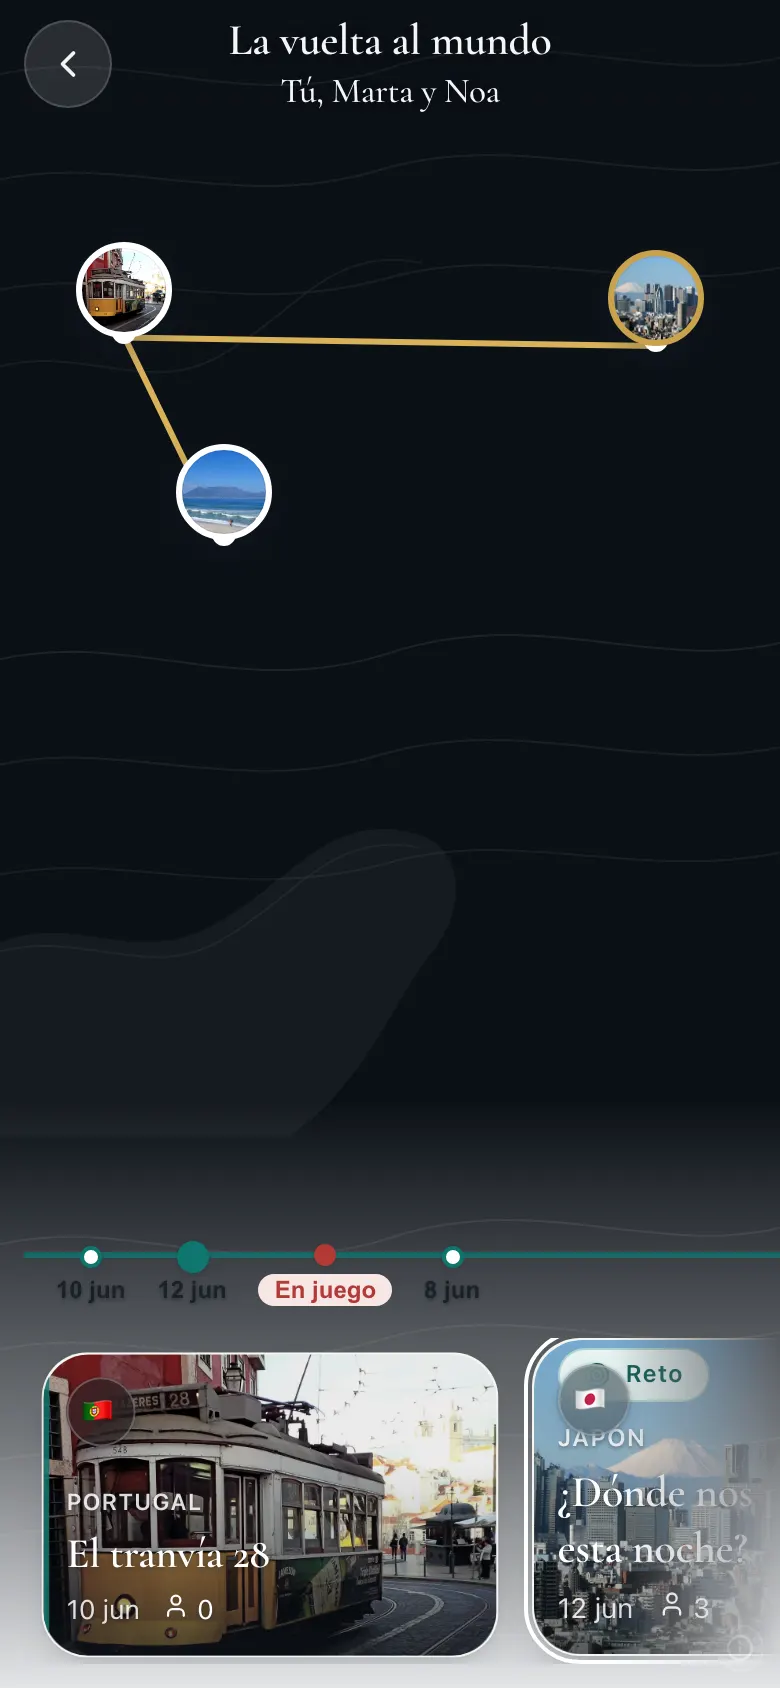
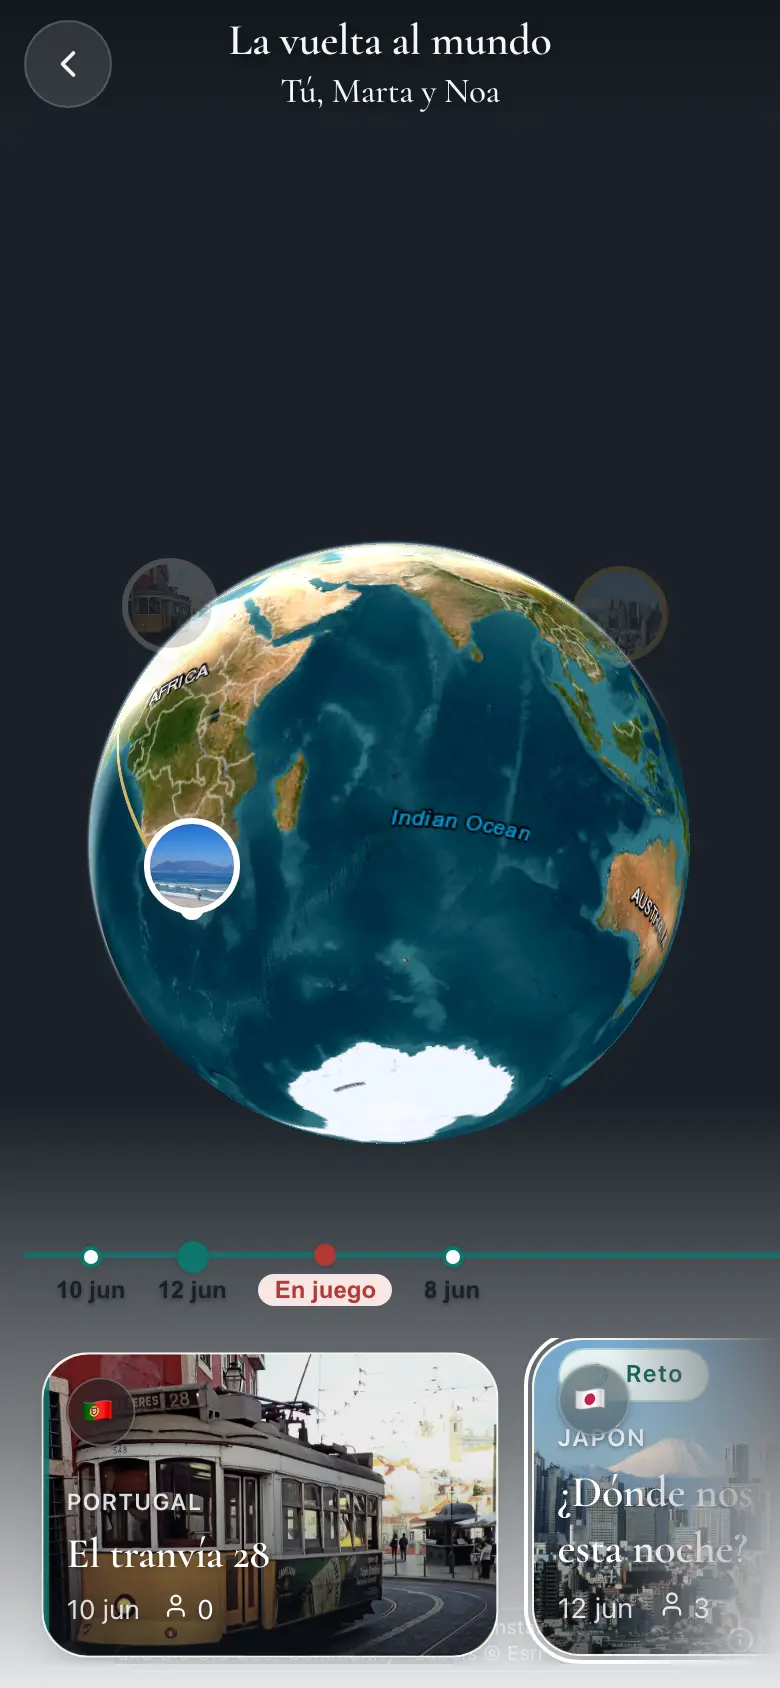
feat(landing): showcase con el mapa satélite REAL en las capturas (#697)
Las capturas home.webp/viaje.webp del showcase de la landing se generaban
con la galería hermética (sin red → sin teselas → stub plano oscuro).
Añade un modo híbrido GALLERY_REAL_MAP=1 (vite.config.ts) que mantiene
fixtures/fakeSupabase/determinismo pero deja pasar el paquete real
maplibre-gl, más un spec/config dedicados (npm run landing:assets, fuera
de CI) que permiten red hacia server.arcgisonline.com, esperan a que el
mapa asiente su encuadre, despliegan el crédito de Esri y capturan a
390×844@2x en webp ≤150KB.

Regenera home.webp (de paso corrige el wordmark viejo "tabide" del
rebrand #692) y viaje.webp. Añade un crédito de repuesto en
LandingShowcase para la diapositiva "viaje", donde el carril de tarjetas
del diario tapa el crédito propio del mapa en la foto congelada.

Closes #695

Changed region(s): [[0.0923, 0.2464, 0.8923, 0.6777], [0.0923, 0.1232, 0.9231, 0.2464]]

diff --git a/web/e2e/landing-assets.spec.ts b/web/e2e/landing-assets.spec.ts
@@ -1,0 +1,205 @@
+import { execFileSync } from 'node:child_process'
+import fs from 'node:fs'
+import os from 'node:os'
+import path from 'node:path'
+import { fileURLToPath } from 'node:url'
+import { type Route, expect, test } from '@playwright/test'
+
+// Regenera los assets del showcase de la landing (issue #695) con el satélite Esri
+// REAL en vez del stub plano oscuro de la galería hermética: el dueño reportó que
+// `home.webp`/`viaje.webp` (marcos de móvil de la landing) enseñaban el mapa
+// estilizado del stub, no el producto de verdad. Corre contra la galería en modo
+// híbrido `GALLERY=1 GALLERY_REAL_MAP=1` (ver vite.config.ts): mantiene fixtures/
+// fakeSupabase/sesión falsa y el determinismo de la galería (reloj congelado,
+// animaciones apagadas), pero deja pasar el paquete REAL `maplibre-gl`, así que
+// los pines-foto de `showcaseFixtures.ts` quedan clavados sobre teselas reales.
+//
+// A diferencia de `gallery-capture.spec.ts` (100% hermético, bloquea TODA red
+// externa) este spec permite explícitamente la red hacia el host de teselas de
+// Esri (ESRI_HOST_PATTERN abajo, el único que usa el preset `diario` — satélite +
+// etiquetas, ver `src/lib/mapPresets.ts`) y bloquea cualquier otro host externo
+// (analítica, etc.) para no depender de servicios que no necesitamos.
+//
+// NO corre en CI ni con `npm run e2e`: tiene su PROPIO comando y config
+// (igual que `gallery-capture`/`npm run gallery:shots`), y necesita red de verdad
+// (no determinista, no apto para CI). Regenerar los assets:
+//
+//   cd web && npm run landing:assets
+//
+// Requiere `cwebp` instalado (https://developers.google.com/speed/webp/docs/cwebp;
+// en macOS: `brew install webp`).
+
+const __dirname = path.dirname(fileURLToPath(import.meta.url))
+const ASSETS_DIR = path.join(__dirname, '..', 'src', 'assets', 'landing')
+
+// Único host de teselas del preset `diario` (satélite + etiquetas Esri, ver
+// mapPresets.ts): ambas capas de HomeGlobe/TripMapGlobe piden a este mismo host,
+// solo cambia la ruta (World_Imagery vs. Reference/World_Boundaries_and_Places).
+const ESRI_HOST_PATTERN = /^https:\/\/server\.arcgisonline\.com\//
+
+// Tamaño máximo del webp final (requisito del dueño: ≤150KB por captura de la
+// landing, coherente con el resto de assets/landing/*.webp).
+const MAX_WEBP_BYTES = 150 * 1024
+// Escalón de calidad de `cwebp -q`: empezamos en 75 (pedido del dueño) y bajamos de
+// 5 en 5 si hace falta hasta caber en el límite, sin pasar de un mínimo razonable.
+const WEBP_QUALITY_START = 75
+const WEBP_QUALITY_MIN = 40
+const WEBP_QUALITY_STEP = 5
+
+// Viewport de las capturas del showcase: mismo tamaño que usan hoy los assets de
+// `src/assets/landing/*.webp` (390×844, @2x — ver LandingShowcase/landingShowcaseData).
+const VIEWPORT = { width: 390, height: 844 }
+const DEVICE_SCALE_FACTOR = 2
+
+// Cuánto tiempo sin una respuesta NUEVA de tesela Esri consideramos "el mapa dejó
+// de cargar" (proxy de `idle`: HomeGlobe no tiene skeleton/evento propio expuesto
+// para acechar desde fuera — solo TripMapGlobe lo tiene internamente, vía
+// `map.once('idle', …)` — así que usamos la MISMA señal, red en reposo, para los
+// dos casos y mantenemos el spec simple). Margen final tras la quietud de red: el
+// navegador necesita un frame más para componer/pintar la última tesela decodificada.
+const TILE_QUIET_MS = 700
+const TILE_WAIT_TIMEOUT_MS = 20_000
+const PAINT_MARGIN_MS = 500
+// Al montar, HomeGlobe/TripMapGlobe hacen `fitBounds`/`flyTo` a los pines (encuadre
+// final): esos vuelos duran ≤800ms en el propio código (`FLY_TO_ACTIVE_DURATION_MS`,
+// `duration: 800` en TripMapGlobe). El PRIMER lote de teselas (vista mundo inicial,
+// antes de encuadrar) puede quedar "en reposo" antes de que el vuelo termine y pida
+// el SEGUNDO lote (zoom/centro final) — sin este respiro capturaríamos el globo A
+// MEDIO GIRO. Esperamos a que el vuelo acabe ANTES de empezar a medir quietud de red.
+const CAMERA_SETTLE_MS = 1200
+
+interface ShowcaseCase {
+  /** Id del caso de la galería (`window.__galleryCases`, ver cases.tsx). */
+  caseId: string
+  /** Fichero final en `src/assets/landing/` (mismo nombre que hoy). */
+  fileName: string
+}
+
+// Únicos dos assets con mapa real (issue #695): `jugar.webp`/`resultado.webp` no
+// llevan satélite (el mapa de "jugar" es CARTO Voyager, reducido a un mini-mapa
+// decorativo de esquina, no protagonista) ni el wordmark viejo, así que no hace
+// falta regenerarlos aquí.
+const CASES: ShowcaseCase[] = [
+  { caseId: 'showcase-home', fileName: 'home.webp' },
+  { caseId: 'showcase-viaje', fileName: 'viaje.webp' },
+]
+
+/** Deja pasar localhost/data/blob (la app + fixtures) y el host de teselas Esri;
+ * bloquea cualquier otra red externa (analítica, etc.) — no la necesitamos y así
+ * la captura no depende de servicios ajenos al mapa. */
+const allowEsriAndLocal = (route: Route) => {
+  const url = route.request().url()
+  if (
+    url.startsWith('http://localhost') ||
+    url.startsWith('data:') ||
+    url.startsWith('blob:') ||
+    ESRI_HOST_PATTERN.test(url)
+  ) {
+    return route.continue()
+  }
+  return route.abort()
+}
+
+/** Convierte un PNG a webp con `cwebp`, bajando la calidad hasta caber en
+ * `MAX_WEBP_BYTES` (o hasta el mínimo). Devuelve la calidad y el peso final. */
+function convertToWebp(pngPath: string, webpPath: string): { quality: number; bytes: number } {
+  let quality = WEBP_QUALITY_START
+  for (;;) {
+    execFileSync('cwebp', ['-q', String(quality), pngPath, '-o', webpPath], { stdio: 'pipe' })
+    const bytes = fs.statSync(webpPath).size
+    if (bytes <= MAX_WEBP_BYTES || quality <= WEBP_QUALITY_MIN) return { quality, bytes }
+    quality -= WEBP_QUALITY_STEP
+  }
+}
+
+test('regenera home.webp/viaje.webp con satélite Esri real', async ({ browser, baseURL }) => {
+  const tmpDir = fs.mkdtempSync(path.join(os.tmpdir(), 'lg-landing-assets-'))
+
+  for (const { caseId, fileName } of CASES) {
+    const context = await browser.newContext({
+      baseURL,
+      viewport: VIEWPORT,
+      deviceScaleFactor: DEVICE_SCALE_FACTOR,
+    })
+
+    // Cuenta respuestas de teselas Esri para aproximar "el mapa dejó de cargar"
+    // (ver TILE_QUIET_MS arriba): sin esto no hay forma de distinguir "todavía
+    // pidiendo teselas" de "ya está, solo faltan otras peticiones sueltas".
+    let tileCount = 0
+    let lastTileAt = 0
+    context.on('response', (response) => {
+      if (ESRI_HOST_PATTERN.test(response.url())) {
+        tileCount += 1
+        lastTileAt = Date.now()
+      }
+    })
+    await context.route('**/*', allowEsriAndLocal)
+
+    const page = await context.newPage()
+    await page.goto(`/gallery.html?case=${encodeURIComponent(caseId)}`)
+    await expect(page.locator('#root')).not.toBeEmpty()
+
+    // Revela el crédito de Esri (issue #695): el mapa NO usa el control nativo de
+    // atribución de MapLibre (banda que rompía el diseño, #363/#382); en su lugar
+    // pinta su propio botón "ⓘ" plegado (HomeGlobe/TripMapGlobe, aria-label
+    // "Créditos del mapa") que despliega el texto al tocarlo. Requisito de
+    // licencia de Esri: el crédito debe quedar VISIBLE en la captura, así que lo
+    // desplegamos ANTES de disparar el screenshot.
+    //
+    // Dos motivos para hacerlo con `page.evaluate` (click de DOM directo) en vez de
+    // un locator normal: (1) todo el globo/mapa vive bajo un `aria-hidden="true"`
+    // (decorativo — el estado real se comunica por otros medios accesibles), así
+    // que NO aparece en el árbol de accesibilidad y `getByRole` no lo encuentra;
+    // (2) el botón queda geométricamente bajo el dock de tarjetas/carrusel (mismo
+    // stacking context, sin z-index propio), así que un click "real" de Playwright
+    // (incluso con `force: true`) golpea ese dock, no el botón. `.click()` de DOM
+    // dispara el evento nativo que React escucha, sin pasar por el hit-testing del
+    // navegador.
+    await page.waitForSelector('[aria-label="Créditos del mapa"]', { state: 'attached' })
+    await page.evaluate(() => {
+      document.querySelector<HTMLButtonElement>('[aria-label="Créditos del mapa"]')?.click()
+    })
+    // El click dispara un `setState` de React: espera a que el re-render lo refleje
+    // en el DOM (no es instantáneo, por eso no lo leemos en el mismo `evaluate`).
+    await expect(page.locator('[aria-label="Créditos del mapa"]')).toHaveAttribute(
+      'aria-expanded',
+      'true',
+    )
+
+    // Deja que el vuelo de cámara del encuadre (fitBounds/flyTo a los pines) TERMINE
+    // antes de medir quietud de red (ver CAMERA_SETTLE_MS): si no, el primer lote de
+    // teselas (vista mundo inicial) puede quedar "en reposo" antes de que el vuelo
+    // pida el lote final, y capturaríamos el globo a medio girar.
+    await page.waitForTimeout(CAMERA_SETTLE_MS)
+
+    // Espera a que las teselas Esri dejen de llegar (proxy de "mapa cargado de
+    // verdad"; ver TILE_QUIET_MS) + un margen fijo para que el navegador termine de
+    // componer/pintar la última tesela decodificada.
+    const deadline = Date.now() + TILE_WAIT_TIMEOUT_MS
+    expect(
+      tileCount,
+      `[${caseId}] no llegó ninguna tesela de ${ESRI_HOST_PATTERN}`,
+    ).toBeGreaterThan(0)
+    while (Date.now() - lastTileAt < TILE_QUIET_MS && Date.now() < deadline) {
+      await page.waitForTimeout(100)
+    }
+    await page.waitForTimeout(PAINT_MARGIN_MS)
+
+    const pngPath = path.join(tmpDir, `${caseId}.png`)
+    await page.screenshot({ path: pngPath })
+    await context.close()
+
+    const webpPath = path.join(ASSETS_DIR, fileName)
+    const { quality, bytes } = convertToWebp(pngPath, webpPath)
+    console.log(
+      `[landing:assets] ${fileName}: ${tileCount} teselas, calidad cwebp ${quality}, ` +
+        `${(bytes / 1024).toFixed(1)}KB`,
+    )
+    expect(
+      bytes,
+      `${fileName} supera ${MAX_WEBP_BYTES / 1024}KB incluso a calidad mínima`,
+    ).toBeLessThanOrEqual(MAX_WEBP_BYTES)
+  }
+
+  fs.rmSync(tmpDir, { recursive: true, force: true })
+})

diff --git a/web/playwright.landing-assets.config.ts b/web/playwright.landing-assets.config.ts
@@ -1,0 +1,45 @@
+import { defineConfig, devices } from '@playwright/test'
+
+// Config de Playwright para el modo HÍBRIDO "galería + mapa real" (issue #695):
+// SOLO sirve para regenerar los assets del showcase de la landing
+// (`web/src/assets/landing/home.webp` y `viaje.webp`) con el satélite Esri de
+// verdad en vez del stub plano oscuro de la galería normal. Aparte de
+// playwright.gallery.config.ts (captura hermética de TODOS los casos) porque:
+// (1) levanta el dev server con GALLERY=1 **y** GALLERY_REAL_MAP=1 (deja pasar el
+// paquete real `maplibre-gl`, ver vite.config.ts), (2) NO es hermético: el propio
+// spec permite red hacia los hosts de teselas de Esri (ver `landing-assets.spec.ts`)
+// — por eso NO corre en CI (ningún workflow ni `npm run e2e` la invoca; solo el
+// script dedicado de abajo).
+//
+// Regenerar los assets:
+//   npm run landing:assets
+//
+// (requiere red de verdad hacia server.arcgisonline.com; en CI/sin red fallaría,
+// por eso queda fuera de la suite automática — es una tarea manual/puntual, igual
+// que `npm run gallery:shots`).
+
+const PORT = 5191
+const baseURL = `http://localhost:${PORT}`
+
+export default defineConfig({
+  testDir: 'e2e',
+  testMatch: /landing-assets\.spec\.ts/,
+  fullyParallel: false,
+  reporter: 'list',
+  // Descargar teselas reales + convertir a webp con cwebp puede tardar más que un
+  // test normal.
+  timeout: 120_000,
+  use: {
+    baseURL,
+    ...devices['Desktop Chrome'],
+    isMobile: false,
+  },
+  projects: [{ name: 'landing-assets' }],
+  webServer: {
+    command: 'npm run dev -- --port ' + PORT,
+    url: baseURL + '/gallery.html',
+    reuseExistingServer: !process.env.CI,
+    timeout: 120_000,
+    env: { GALLERY: '1', GALLERY_REAL_MAP: '1' },
+  },
+})

diff --git a/web/src/features/auth/landingShowcaseData.ts b/web/src/features/auth/landingShowcaseData.ts
@@ -11,18 +11,30 @@
 // bucle (ver `SHOWCASE_LOOP`)— son capturas de las pantallas ACTUALES con FOTOS REALES
 // (fixtures dedicados en `web/src/gallery/showcaseFixtures.ts`, casos `showcase-*`).
 //
-// Las imágenes están versionadas y optimizadas (webp) en assets/landing/. Se generan
-// con `npm run gallery:shots` (viewport móvil 390×844@2x, casos `showcase-*`) y se
-// convierten a webp. Límite conocido: los mapas de la galería van stubeados (fondo
-// oscuro plano, ver `gallery/stubs/maplibre-gl.ts`), así que elegimos composiciones
-// que lucen SIN depender de tiles reales — el "reveal" en concreto recorta el mapa a
-// 62svh del revelado real (un rectángulo liso que no aporta) y se queda solo con el
-// anillo de puntos, que es SVG/CSS puro.
+// Las imágenes están versionadas y optimizadas (webp) en assets/landing/. `jugar.webp`/
+// `resultado.webp` se generan con `npm run gallery:shots` (galería hermética, viewport
+// móvil 390×844@2x) — ninguna de las dos lleva mapa satélite protagonista, así que el
+// stub de mapas no las afecta. `home.webp`/`viaje.webp` SÍ enseñan el globo satélite y
+// se generan con el modo híbrido `npm run landing:assets` (issue #695): la galería
+// hermética normal solo tiene el stub plano oscuro de `gallery/stubs/maplibre-gl.ts`
+// (sin red → sin teselas), así que esas dos usan el paquete REAL de mapas para que las
+// fotos-pin queden clavadas sobre satélite de verdad.
 
 import homeShot from '../../assets/landing/home.webp'
 import viajeShot from '../../assets/landing/viaje.webp'
 import jugarShot from '../../assets/landing/jugar.webp'
 import resultadoShot from '../../assets/landing/resultado.webp'
+import { MAP_PRESETS } from '../../lib/mapPresets'
+
+// Mismo crédito de tiles que pintan HomeGlobe/TripMapGlobe (issue #695): construido
+// aquí en vez de importado porque es una tira presentacional de UNA sola diapositiva,
+// no una responsabilidad del propio mapa — pero se apoya en las MISMAS constantes de
+// `mapPresets.ts`, así que un cambio de proveedor de tiles no puede desincronizarse.
+const { base: ESRI_SATELLITE, labels: ESRI_LABELS } = MAP_PRESETS.diario
+const ESRI_CREDIT = [ESRI_SATELLITE.attribution, ESRI_LABELS?.attribution]
+  .filter(Boolean)
+  .join(' · ')
+  .replace(/&copy;/g, '©')
 
 // Una diapositiva del showcase: un texto editorial (eyebrow + título + lede) junto a
 // una captura real montada en un marco de móvil. El orden cuenta el bucle del producto.
@@ -38,6 +50,14 @@ export interface ShowcaseShot {
   title: string
   /** Frase de apoyo que explica qué se ve. */
   lede: string
+  /**
+   * Crédito del mapa satélite (issue #695), SOLO cuando el crédito propio del mapa
+   * (el botón "ⓘ" de HomeGlobe/TripMapGlobe, ya desplegado al capturar) no queda
+   * legible en la foto congelada — p.ej. el diario le superpone el carril de
+   * tarjetas justo donde cae el crédito. Requisito de licencia de Esri: si no se ve
+   * en la captura, lo repetimos aquí, pequeño, bajo el marco.
+   */
+  mapCredit?: string
 }
 
 // Cuatro pantallas héroe, una por paso del bucle "comparte → adivina → gana → revive"
@@ -60,6 +80,7 @@ export const SHOWCASE_SHOTS: ShowcaseShot[] = [
     eyebrow: 'El recorrido',
     title: 'Cada momento, en su sitio',
     lede: 'Fotos y retos se guardan en el diario del viaje, en orden. Así tu gente revive por dónde habéis pasado.',
+    mapCredit: ESRI_CREDIT,
   },
   {
     id: 'jugar',

diff --git a/web/vite.config.ts b/web/vite.config.ts
@@ -14,6 +14,15 @@ const ACCENT = '#34506b' // theme_color (azul pizarra de marca)
 // Rollup y (2) aliaseamos la capa de datos y los paquetes de mapas a sus dobles de
 // `src/gallery/`. Sin la env, la app de producción no se ve afectada en absoluto.
 const galleryMode = process.env.GALLERY === '1'
+// GALERÍA CON MAPA REAL (issue #695): variante de captura, SOLO para regenerar los
+// assets del showcase de la landing (`web/src/assets/landing/*.webp`) con el
+// satélite Esri de verdad en vez del stub plano oscuro. Mantiene TODOS los demás
+// dobles (fakeSupabase/session/Google Maps) y el determinismo de la galería (reloj
+// congelado, animaciones apagadas): solo deja pasar el paquete REAL `maplibre-gl`
+// (y su CSS) para que los pines-foto queden clavados sobre el mundo de verdad. La
+// usa exclusivamente `npm run landing:assets` (ver playwright.landing-assets.config.ts);
+// `npm run gallery`/`gallery:shots`/`a11y` siguen 100% herméticos, sin este flag.
+const galleryRealMap = galleryMode && process.env.GALLERY_REAL_MAP === '1'
 const resolvePath = (rel: string) => fileURLToPath(new URL(rel, import.meta.url))
 
 // Redirige los módulos reales a sus dobles cuando se compila la galería. Lo hacemos
@@ -23,9 +32,14 @@ const resolvePath = (rel: string) => fileURLToPath(new URL(rel, import.meta.url)
 // de ruta. Solo se enchufa con GALLERY=1, así producción no se toca.
 function galleryDoublesPlugin(): Plugin {
   const bareDoubles: Record<string, string> = {
-    'maplibre-gl/dist/maplibre-gl.css': resolvePath('./src/gallery/stubs/empty.css'),
-    'maplibre-gl': resolvePath('./src/gallery/stubs/maplibre-gl.ts'),
     '@vis.gl/react-google-maps': resolvePath('./src/gallery/stubs/react-google-maps.tsx'),
+  }
+  // Con GALLERY_REAL_MAP=1 NO aliaseamos maplibre-gl (ni su CSS): el import real
+  // resuelve tal cual y el mapa pinta teselas de verdad. En cualquier otro caso
+  // (galería normal) se mantiene el doble plano de siempre.
+  if (!galleryRealMap) {
+    bareDoubles['maplibre-gl/dist/maplibre-gl.css'] = resolvePath('./src/gallery/stubs/empty.css')
+    bareDoubles['maplibre-gl'] = resolvePath('./src/gallery/stubs/maplibre-gl.ts')
   }
   const fileDoubles: { suffix: string; target: string }[] = [
     { suffix: '/lib/supabase.ts', target: resolvePath('./src/gallery/fakeSupabase.ts') },

diff --git a/web/src/features/auth/LandingShowcase.module.css b/web/src/features/auth/LandingShowcase.module.css
@@ -126,6 +126,18 @@
   pointer-events: none;
 }
 
+/* Crédito del mapa de repuesto (issue #695, ver `ShowcaseShot.mapCredit`): micro-meta
+ * bajo el marco, discreto pero legible — solo aparece en la diapositiva cuyo crédito
+ * IN-CAPTURA queda tapado por el propio chrome de la pantalla. */
+.mapCredit {
+  margin: 0;
+  max-width: min(74%, 280px);
+  font-size: var(--font-size-xs);
+  line-height: var(--line-height-snug);
+  color: var(--scene-ink-soft);
+  opacity: 0.7;
+}
+
 /* ── Relato del bucle + CTA ──────────────────────────────────────────────────── */
 /* Vidrio (issue #622, regla dura #537): flota sobre la escena oscura continua;
  * el material (fondo/blur/borde/tinta) lo aporta `.lg-glass` en el TSX, aquí solo

diff --git a/web/src/features/auth/LandingShowcase.tsx b/web/src/features/auth/LandingShowcase.tsx
@@ -50,6 +50,10 @@ export function LandingShowcase({ onStart, className }: Props) {
               />
             </div>
           </div>
+          {/* Crédito del mapa satélite de repuesto (issue #695): solo cuando la
+              propia captura no deja legible el crédito de Esri que pinta el mapa
+              (ver `ShowcaseShot.mapCredit`). Ausente en el resto de diapositivas. */}
+          {shot.mapCredit && <p className={styles.mapCredit}>{shot.mapCredit}</p>}
         </section>
       ))}
 